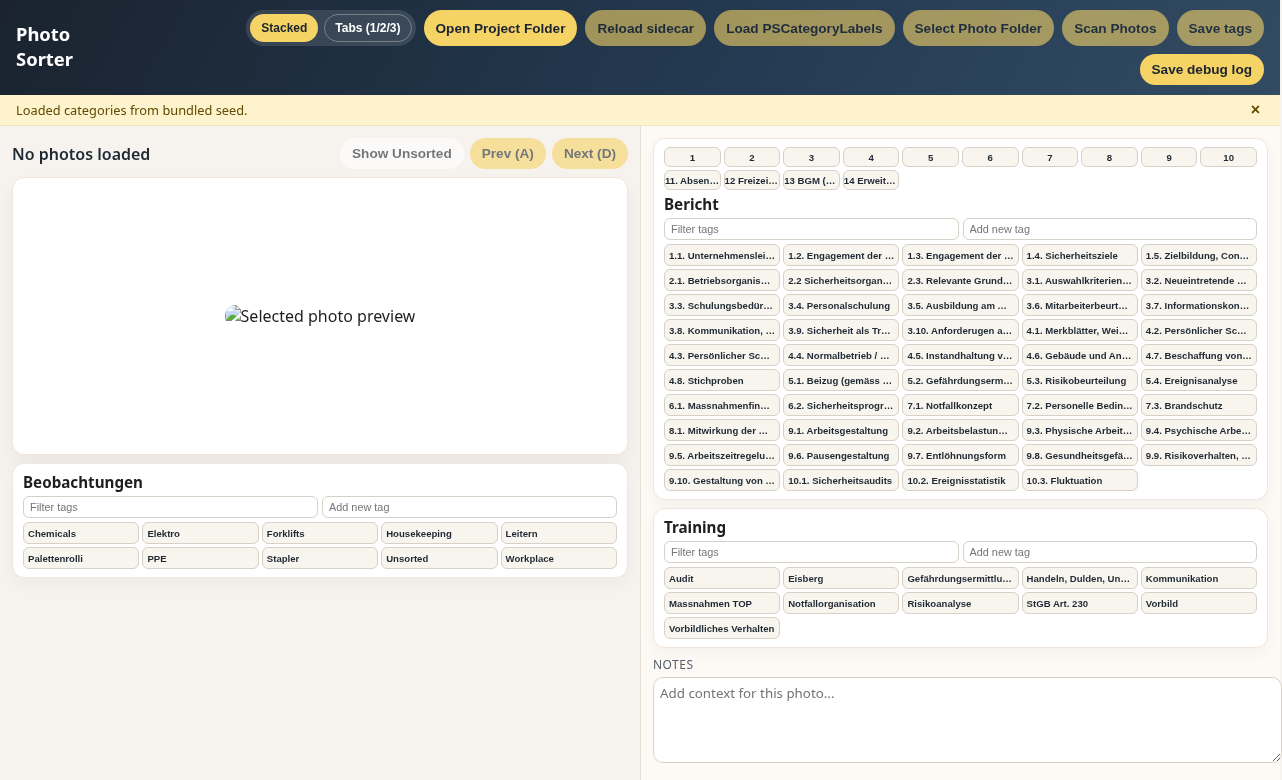
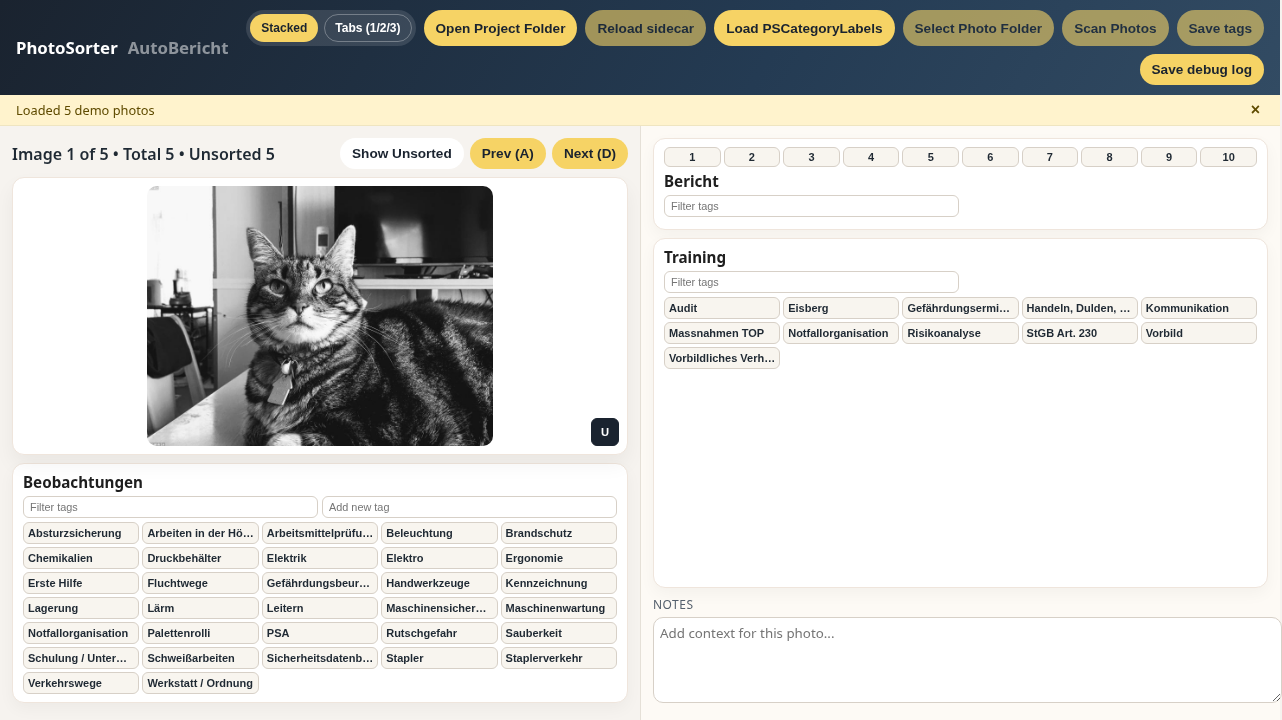
Add global unsorted button and demo photo loader

diff --git a/AutoBericht/mini/photosorter.js b/AutoBericht/mini/photosorter.js
@@ -11,6 +11,7 @@
   const statusCloseBtn = document.getElementById("status-close");
   const photoMetaEl = document.getElementById("photo-meta");
   const photoImageEl = document.getElementById("photo-image");
+  const photoUnsortedBtn = document.getElementById("photo-unsorted");
   const thumbsEl = document.getElementById("thumbs");
   const filterToggleBtn = document.getElementById("filter-toggle");
   const prevBtn = document.getElementById("prev-photo");
@@ -358,11 +359,17 @@
 
   const clearPhotoUrls = () => {
     state.photos.forEach((photo) => {
-      if (photo.url) {
+      if (photo.url && photo.url.startsWith("blob:")) {
         URL.revokeObjectURL(photo.url);
       }
     });
   };
+
+  if (photoUnsortedBtn) {
+    photoUnsortedBtn.addEventListener("click", () => {
+      setPhotoUnsorted();
+    });
+  }
 
   const renderViewer = () => {
     const current = getCurrentPhoto();
@@ -371,6 +378,10 @@
       photoImageEl.alt = "No photo loaded";
       notesEl.value = "";
       notesEl.disabled = true;
+      if (photoUnsortedBtn) {
+        photoUnsortedBtn.classList.remove("active");
+        photoUnsortedBtn.disabled = true;
+      }
       updateMeta();
       enableActions();
       return;
@@ -379,6 +390,11 @@
     photoImageEl.alt = current.path;
     notesEl.value = current.notes || "";
     notesEl.disabled = false;
+    if (photoUnsortedBtn) {
+      const isUnsorted = isPhotoUnsorted(current);
+      photoUnsortedBtn.classList.toggle("active", isUnsorted);
+      photoUnsortedBtn.disabled = false;
+    }
     updateMeta();
   };
 
@@ -474,21 +490,6 @@
       ? splitChapterOptions(filteredOptions)
       : { chapters: [], rest: filteredOptions };
 
-    const unsortedRow = document.createElement("div");
-    unsortedRow.className = "panel__unsorted";
-    const unsortedBtn = document.createElement("button");
-    unsortedBtn.type = "button";
-    unsortedBtn.className = "tag-button tag-button--unsorted";
-    unsortedBtn.textContent = "Unsorted";
-    unsortedBtn.title = "Unsorted";
-    if (selected.size === 0) {
-      unsortedBtn.classList.add("active");
-    }
-    unsortedBtn.addEventListener("click", () => {
-      setGroupUnsorted(group);
-    });
-    unsortedRow.appendChild(unsortedBtn);
-
     if (config.splitChapters) {
       const chapterRow = document.createElement("div");
       chapterRow.className = "panel__chapters";
@@ -527,7 +528,7 @@
       tagsEl.appendChild(button);
     });
 
-    container.append(title, description, controls, unsortedRow, tagsEl);
+    container.append(title, description, controls, tagsEl);
   };
 
   const renderPanels = () => {
@@ -568,6 +569,15 @@
     const current = getCurrentPhoto();
     if (!current) return;
     current.tags[group] = [];
+    renderAll();
+  };
+
+  const setPhotoUnsorted = () => {
+    const current = getCurrentPhoto();
+    if (!current) return;
+    current.tags.report = [];
+    current.tags.observations = [];
+    current.tags.training = [];
     renderAll();
   };
 

diff --git a/AutoBericht/mini/photosorter.css b/AutoBericht/mini/photosorter.css
@@ -174,6 +174,7 @@ button[disabled] {
   box-shadow: 0 10px 20px rgba(0, 0, 0, 0.05);
   height: 34vh;
   min-height: 260px;
+  position: relative;
 }
 
 .viewer__observations {
@@ -185,6 +186,28 @@ button[disabled] {
   max-height: 100%;
   border-radius: 10px;
   object-fit: contain;
+}
+
+.photo-unsorted {
+  position: absolute;
+  right: 8px;
+  bottom: 8px;
+  width: 28px;
+  height: 28px;
+  border-radius: 6px;
+  border: 1px solid #d7d0c7;
+  background: #f8f5ef;
+  color: #1f2933;
+  font-weight: 700;
+  font-size: 0.7rem;
+  padding: 0;
+  cursor: pointer;
+}
+
+.photo-unsorted.active {
+  background: #1a232f;
+  color: #fff;
+  border-color: #1a232f;
 }
 
 .viewer__thumbs {
@@ -303,14 +326,6 @@ button[disabled] {
   margin-bottom: 4px;
 }
 
-.panel__unsorted {
-  margin: 2px 0 6px;
-}
-
-.tag-button--unsorted {
-  font-weight: 600;
-  text-align: center;
-}
 
 .panel--report .panel__tags {
   grid-template-columns: repeat(5, 1fr);

diff --git a/AutoBericht/mini/photosorter.html b/AutoBericht/mini/photosorter.html
@@ -45,6 +45,7 @@
         </div>
         <div class="viewer__image">
           <img id="photo-image" alt="Selected photo preview" />
+          <button type="button" class="photo-unsorted" id="photo-unsorted" title="Unsorted">U</button>
         </div>
         <div class="viewer__observations">
           <div class="panel panel--observations" id="panel-observations"></div>
